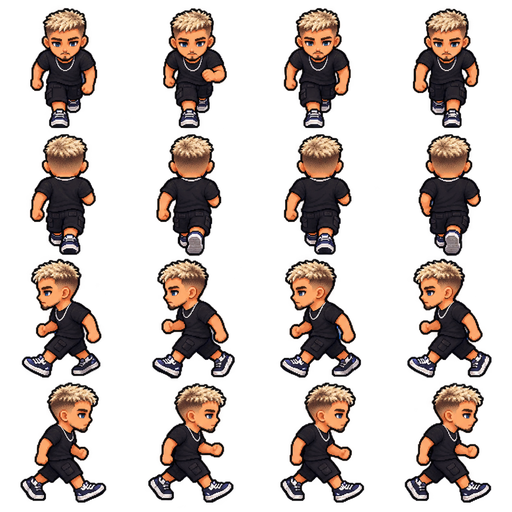
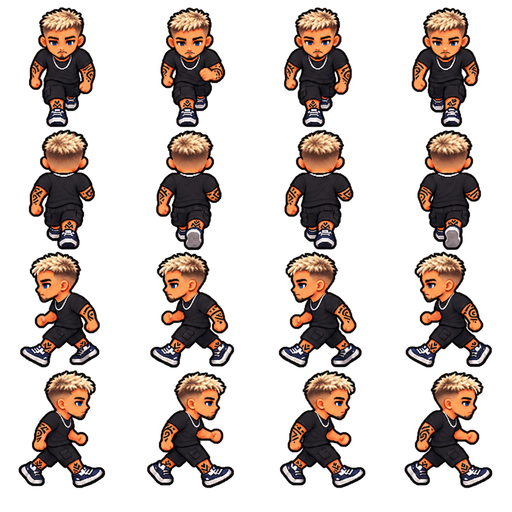
Add tattoos and Mikasa style Thalys ball

diff --git a/game.js b/game.js
@@ -65,7 +65,7 @@
   const caetanoAtlas = new Image();
   caetanoAtlas.src = 'assets/caetano-walk.png';
   const thalysAtlas = new Image();
-  thalysAtlas.src = 'assets/thalys-walk.png';
+  thalysAtlas.src = 'assets/thalys-walk.png?v=tattoos-20261011';
   const loadEvolutionAtlas = (file) => { const image = new Image(); image.src = `assets/evolutions/${file}.png`; return image; };
   const evolutionAtlases = {
     jao: { 1: loadEvolutionAtlas('jao-stage1'), 2: loadEvolutionAtlas('jao-stage2') },
@@ -1020,12 +1020,24 @@
   }
   function drawVolleyBallAt(x, y, radius, rotation = 0) {
     ctx.save(); ctx.translate(x, y); ctx.rotate(rotation); ctx.globalCompositeOperation = 'source-over';
-    ctx.fillStyle = '#f7f5e9'; ctx.strokeStyle = '#24364b'; ctx.lineWidth = Math.max(1, radius * .16);
+    ctx.fillStyle = '#f4ed00'; ctx.strokeStyle = '#17202b'; ctx.lineWidth = Math.max(1, radius * .16);
     ctx.beginPath(); ctx.arc(0, 0, radius, 0, Math.PI * 2); ctx.fill(); ctx.stroke();
-    ctx.lineWidth = Math.max(.8, radius * .14); ctx.strokeStyle = '#1d6495';
-    ctx.beginPath(); ctx.moveTo(-radius * .78, -radius * .2); ctx.quadraticCurveTo(0, -radius * .85, radius * .76, -.1 * radius); ctx.stroke();
-    ctx.strokeStyle = '#e5ad36'; ctx.beginPath(); ctx.moveTo(-radius * .15, -radius * .95); ctx.quadraticCurveTo(radius * .85, 0, radius * .08, radius * .92); ctx.stroke();
-    ctx.strokeStyle = '#337fa4'; ctx.beginPath(); ctx.moveTo(-radius * .85, radius * .12); ctx.quadraticCurveTo(-radius * .15, 0, radius * .72, radius * .48); ctx.stroke();
+    ctx.fillStyle = '#101216';
+    for (let i = 0; i < 3; i++) {
+      const a = rotation + i * Math.PI * 2 / 3, spread = .43;
+      ctx.beginPath();
+      ctx.moveTo(Math.cos(a - spread) * radius * .96, Math.sin(a - spread) * radius * .96);
+      ctx.quadraticCurveTo(Math.cos(a - .2) * radius * .43, Math.sin(a - .2) * radius * .43, Math.cos(a + .12) * radius * .16, Math.sin(a + .12) * radius * .16);
+      ctx.quadraticCurveTo(Math.cos(a + .4) * radius * .48, Math.sin(a + .4) * radius * .48, Math.cos(a + spread) * radius * .96, Math.sin(a + spread) * radius * .96);
+      ctx.quadraticCurveTo(Math.cos(a + .72) * radius * .94, Math.sin(a + .72) * radius * .94, Math.cos(a - .72) * radius * .94, Math.sin(a - .72) * radius * .94);
+      ctx.closePath(); ctx.fill();
+    }
+    ctx.lineWidth = Math.max(.65, radius * .09); ctx.strokeStyle = '#fff45a';
+    for (let i = 0; i < 3; i++) {
+      const a = rotation + i * Math.PI * 2 / 3;
+      ctx.beginPath(); ctx.moveTo(Math.cos(a + .48) * radius * .94, Math.sin(a + .48) * radius * .94);
+      ctx.quadraticCurveTo(Math.cos(a + .78) * radius * .72, Math.sin(a + .78) * radius * .72, Math.cos(a + .98) * radius * .38, Math.sin(a + .98) * radius * .38); ctx.stroke();
+    }
     ctx.restore();
   }
   function drawBullet(b) {

diff --git a/index.html b/index.html
@@ -5,7 +5,7 @@
   <meta name="viewport" content="width=device-width,initial-scale=1,maximum-scale=1,user-scalable=no,viewport-fit=cover">
   <meta name="theme-color" content="#11151d">
   <title>Junq Bullet</title>
-  <link rel="stylesheet" href="style.css?v=thalys-character-20261011">
+  <link rel="stylesheet" href="style.css?v=thalys-tattoos-ball-20261011">
 </head>
 <body>
   <canvas id="game" aria-label="Junq Bullet, jogo de sobrevivência"></canvas>
@@ -115,6 +115,6 @@
       <button id="retry-button" class="primary">TENTAR DE NOVO</button>
     </section>
   </main>
-  <script src="game.js?v=thalys-character-20261011"></script>
+  <script src="game.js?v=thalys-tattoos-ball-20261011"></script>
 </body>
 </html>

diff --git a/style.css b/style.css
@@ -114,7 +114,7 @@
 
 .ultimate.math-ultimate{border-color:#58dfff;background:linear-gradient(145deg,#1885a7,#1d476d);box-shadow:0 0 28px #58dfff70}.ultimate.math-ultimate:disabled{filter:saturate(.45);opacity:.8}
 
-.character-art-thalys{background-image:url('assets/thalys-walk.png')}
+ .character-art-thalys{background-image:url('assets/thalys-walk.png?v=tattoos-20261011')}
 .ultimate.thalys-ultimate{border-color:#ffe08a;background:linear-gradient(145deg,#ae7a29ed,#71512bed);box-shadow:0 0 28px #ffcf6155}
 .ultimate.thalys-ultimate:disabled{filter:saturate(.48);opacity:.8}
 .desktop-ultimate.thalys-ultimate{border-color:#ffe08a80;box-shadow:0 8px 24px #0009,0 0 20px #ffcf6130}
